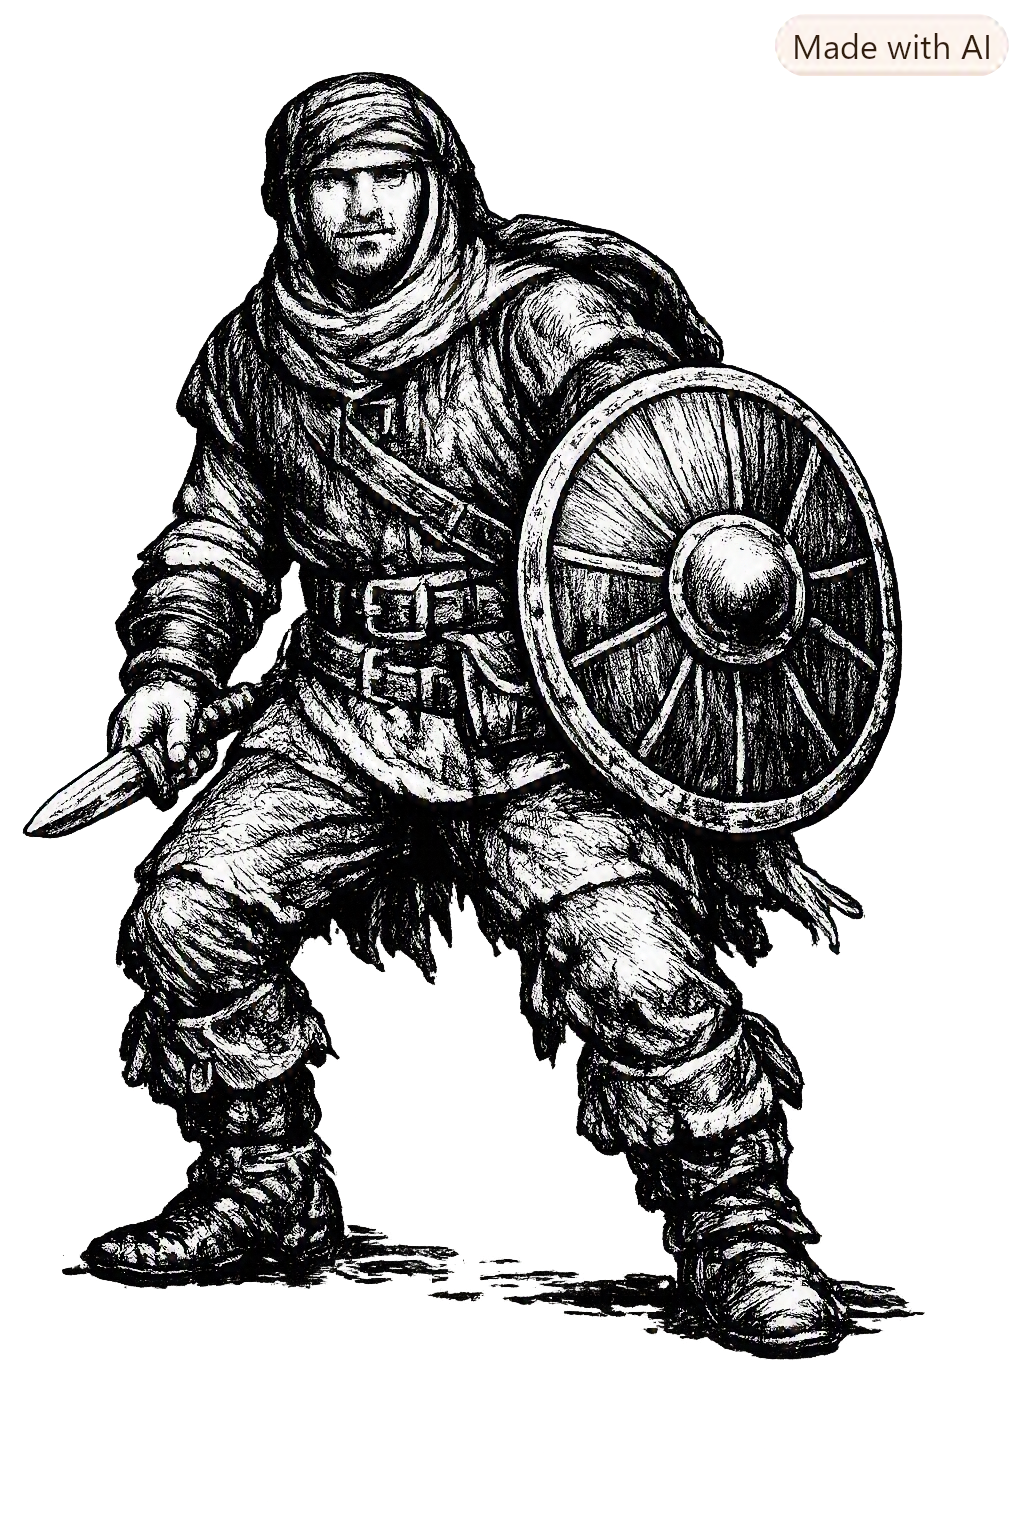
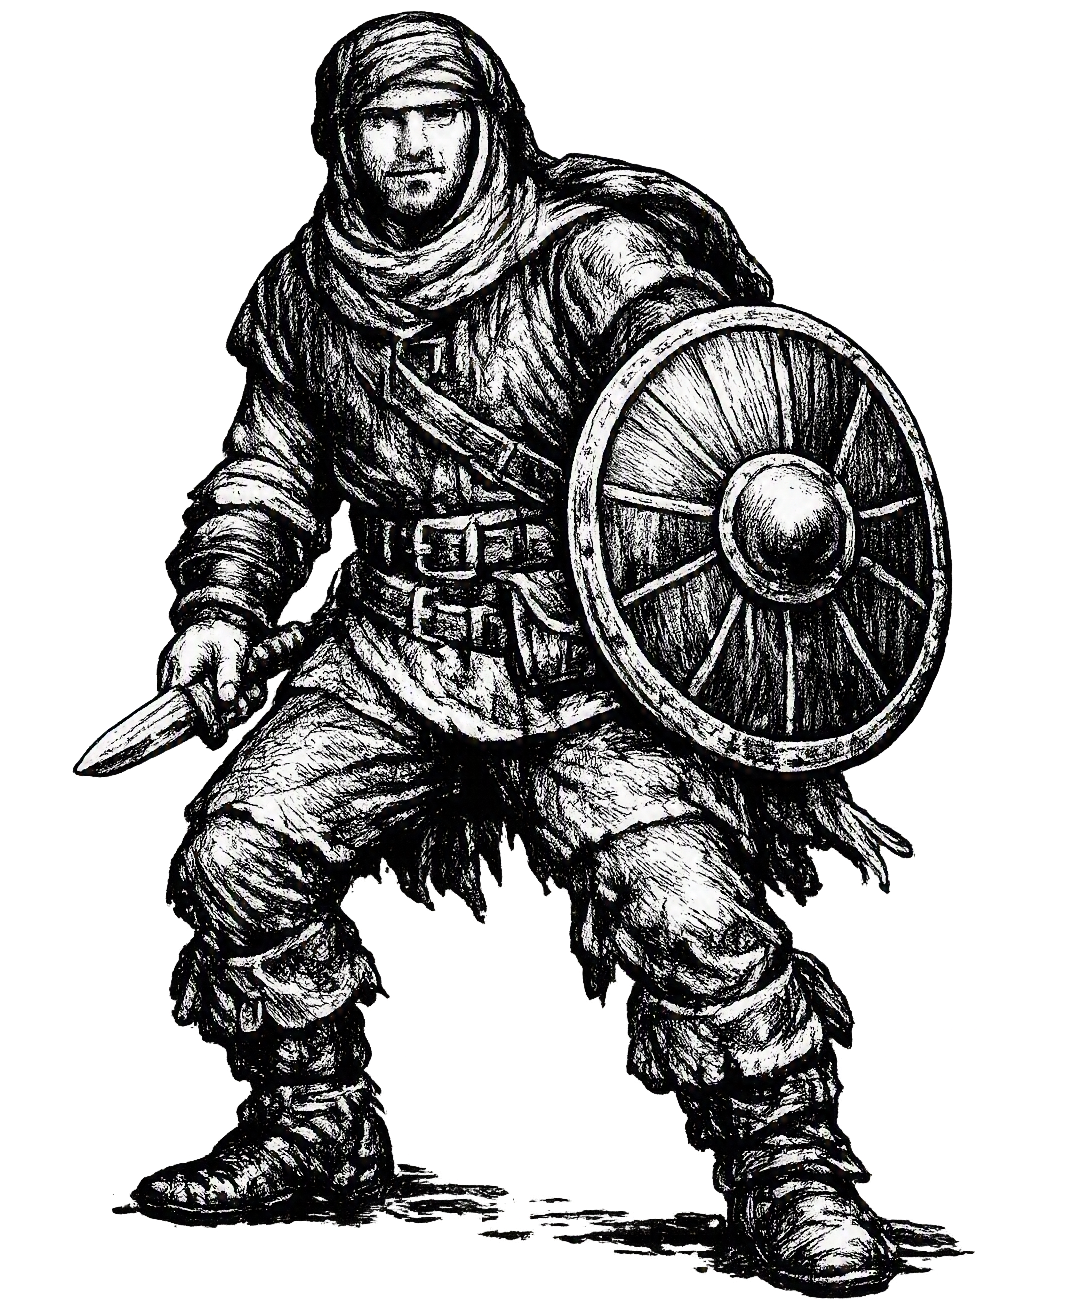
Charatersheet refined

diff --git a/Adnd.Game/CampCharacterInspectForm.cs b/Adnd.Game/CampCharacterInspectForm.cs
@@ -126,6 +126,8 @@ public sealed class CampCharacterInspectForm : Form
         _buttonsPanel.Controls.Add(MakeButton("I)dentify", (_, _) => NotImplemented("Identify")));
         _buttonsPanel.Controls.Add(MakeButton("S)pell", (_, _) => CastSpellAction()));
         _buttonsPanel.Controls.Add(MakeButton("U)se Item", (_, _) => UseItemAction()));
+        _buttonsPanel.Controls.Add(MakeButton("C)haracter Sheet", (_, _) => ShowCharacterSheetAction()));
+
         _layOnHandsButton = MakeButton("L)ay on Hands", (_, _) => LayOnHandsAction());
         _buttonsPanel.Controls.Add(_layOnHandsButton);
         _buttonsPanel.Controls.Add(MakeButton("L↵eave", (_, _) => Close()));
@@ -140,7 +142,7 @@ public sealed class CampCharacterInspectForm : Form
             ForeColor = GameRulesProvider.Current.DefaultColor,
             BorderStyle = BorderStyle.FixedSingle,
             Font = new Font("Consolas", 24f, FontStyle.Bold),
-            Text = "R)EAD  T)RADE  P)OOL GOLD  S)PELL  L↵EAVE\nE)QUIP  D)ROP   I)DENTIFY  U)SE ITEM",
+            Text = "R)EAD  T)RADE  P)OOL GOLD  S)PELL  L↵EAVE\nE)QUIP  D)ROP   I)DENTIFY  U)SE ITEM C)HARACTER SHEET",
             TextAlign = ContentAlignment.MiddleLeft,
             Visible = false
         };
@@ -176,6 +178,8 @@ public sealed class CampCharacterInspectForm : Form
             ("identify", "Identify"),
             ("spell", "Spell"),
             ("useItem", "Use item"),
+            ("characterSheet", "Character Sheet"),
+
         };
 
         var c = GetCharacter();
@@ -203,6 +207,8 @@ public sealed class CampCharacterInspectForm : Form
                 case "pool": PoolGoldAction(); break;
                 case "identify": NotImplemented("Identify"); break;
                 case "spell": CastSpellAction(); break;
+                case "useItem": UseItemAction(); break;
+                case "characterSheet": ShowCharacterSheetAction(); break;
                 case "leave": Close(); return;
                 default: return;
             }
@@ -253,6 +259,9 @@ public sealed class CampCharacterInspectForm : Form
                 break;
             case Keys.I:
                 NotImplemented("Identify");
+                break;
+            case Keys.C:
+                ShowCharacterSheetAction();
                 break;
             case Keys.U:
                 UseItemAction();
@@ -329,8 +338,8 @@ public sealed class CampCharacterInspectForm : Form
         _layOnHandsButton.Visible = c.IsPaladin();
         _layOnHandsButton.Text = c.LayOnHandsUsedToday ? "L)ay Hands (used)" : "L)ay on Hands";
         _oldStyleFooterLabel.Text = c.IsPaladin()
-            ? "R)EAD  T)RADE  P)OOL GOLD  S)PELL  ↵)LEAVE\nE)QUIP  D)ROP   I)DENTIFY  U)SE ITEM  L)AY ON HANDS"
-            : "R)EAD  T)RADE  P)OOL GOLD  S)PELL  L↵EAVE\nE)QUIP  D)ROP   I)DENTIFY  U)SE ITEM";
+            ? "R)EAD  T)RADE  P)OOL GOLD  S)PELL  L↵EAVE\nE)QUIP D)ROP I)DENTIFY U)SE C)HARACTER L)AY ON HANDS"
+            : "R)EAD  T)RADE  P)OOL GOLD  S)PELL  L↵EAVE\nE)QUIP  D)ROP   I)DENTIFY  U)SE ITEM  C)HARACTER SHEET";
 
         if (GameRulesProvider.Current.UIOldStyle)
         {
@@ -802,6 +811,23 @@ public sealed class CampCharacterInspectForm : Form
             _characterRepository.Save(caster);
             RefreshView();
         }
+    }
+    /*
+    public void ShowCharaterSheet(Character character)
+    {
+        using var sheet = new Adnd.Game.Windows.CharacterForm(character);
+        sheet.ShowDialog(this);
+        PublishToViewer();
+    }
+    */
+    private void ShowCharacterSheetAction()
+    {
+        var c = GetCharacter();
+        if (c == null)
+            return;
+        //    using var sheetForm = new ShowCharaterSheet(c);
+        using var sheet = new Adnd.Game.Windows.CharacterForm(c);
+        sheet.ShowDialog(this);
     }
 
     private void UseItemAction()

diff --git a/Adnd.Game/CharacterForm.cs b/Adnd.Game/CharacterForm.cs
@@ -46,7 +46,7 @@ namespace Adnd.Game.Windows
             DrawInCircle(g, _character.Abilities.Dexterity.ToString(), new Rectangle(660, 300, 66, 66));
             DrawInCircle(g, _character.Abilities.Charisma.ToString(), new Rectangle(815, 300, 66, 66));
         }
-
+        /*
         private void DrawInBox(Graphics g, string text, Rectangle rect)
         {
             var format = new StringFormat
@@ -66,5 +66,74 @@ namespace Adnd.Game.Windows
             };
             g.DrawString(text, _handFont, _ink, circleBounds, format);
         }
+        */
+        private readonly Random _rnd = new Random();
+        private void DrawBoldString(Graphics g, string text, Font font, Brush brush, Rectangle rect, StringFormat format)
+        {
+            // Rita texten 3 gånger med små förskjutningar
+            g.DrawString(text, font, brush, new Rectangle(rect.X, rect.Y, rect.Width, rect.Height), format);
+            g.DrawString(text, font, brush, new Rectangle(rect.X + 1, rect.Y, rect.Width, rect.Height), format);
+            g.DrawString(text, font, brush, new Rectangle(rect.X, rect.Y + 1, rect.Width, rect.Height), format);
+        }
+        private void DrawInBox(Graphics g, string text, Rectangle rect)
+        {
+            var format = new StringFormat
+            {
+                Alignment = StringAlignment.Center,
+                LineAlignment = StringAlignment.Center
+            };
+
+            float angle = (float)(_rnd.NextDouble() * 8 - 4);
+            int dx = _rnd.Next(-3, 4);
+            int dy = _rnd.Next(-3, 4);
+
+            var state = g.Save();
+
+            g.TranslateTransform(rect.X + rect.Width / 2 + dx,
+                                 rect.Y + rect.Height / 2 + dy);
+            g.RotateTransform(angle);
+
+            // Rita bold text centrerat i den roterade boxen
+            DrawBoldString(
+                g,
+                text,
+                _handFont,
+                _ink,
+                new Rectangle(-rect.Width / 2, -rect.Height / 2, rect.Width, rect.Height),
+                format);
+
+            g.Restore(state);
+        }
+
+        private void DrawInCircle(Graphics g, string text, Rectangle circleBounds)
+        {
+            var format = new StringFormat
+            {
+                Alignment = StringAlignment.Center,
+                LineAlignment = StringAlignment.Center
+            };
+
+            float angle = (float)(_rnd.NextDouble() * 8 - 4);
+            int dx = _rnd.Next(-3, 4);
+            int dy = _rnd.Next(-3, 4);
+
+            var state = g.Save();
+
+            g.TranslateTransform(circleBounds.X + circleBounds.Width / 2 + dx,
+                                 circleBounds.Y + circleBounds.Height / 2 + dy);
+            g.RotateTransform(angle);
+
+            DrawBoldString(
+                g,
+                text,
+                _handFont,
+                _ink,
+                new Rectangle(-circleBounds.Width / 2, -circleBounds.Height / 2,
+                              circleBounds.Width, circleBounds.Height),
+                format);
+
+            g.Restore(state);
+        }
+
     }
 }

diff --git a/Adnd.Game/MazeForm.cs b/Adnd.Game/MazeForm.cs
@@ -882,7 +882,6 @@ redesign level 3 to have only one boarder corridor and to have 2 more rooms and 
                 new ViewerPromptOption("leave", "Leave camp"),
             });
 
-            //TODO introduce ShowCharaterSheet as an option to the camp menu,
 
             var campAnswers = new Dictionary<string, DialogResult>
             {
@@ -1134,7 +1133,7 @@ redesign level 3 to have only one boarder corridor and to have 2 more rooms and 
         Invalidate();
     }
 
-    private void ShowCharaterSheet(Character character)
+    public void ShowCharaterSheet(Character character)
     {
         using var sheet = new Adnd.Game.Windows.CharacterForm(character);
         sheet.ShowDialog(this);
